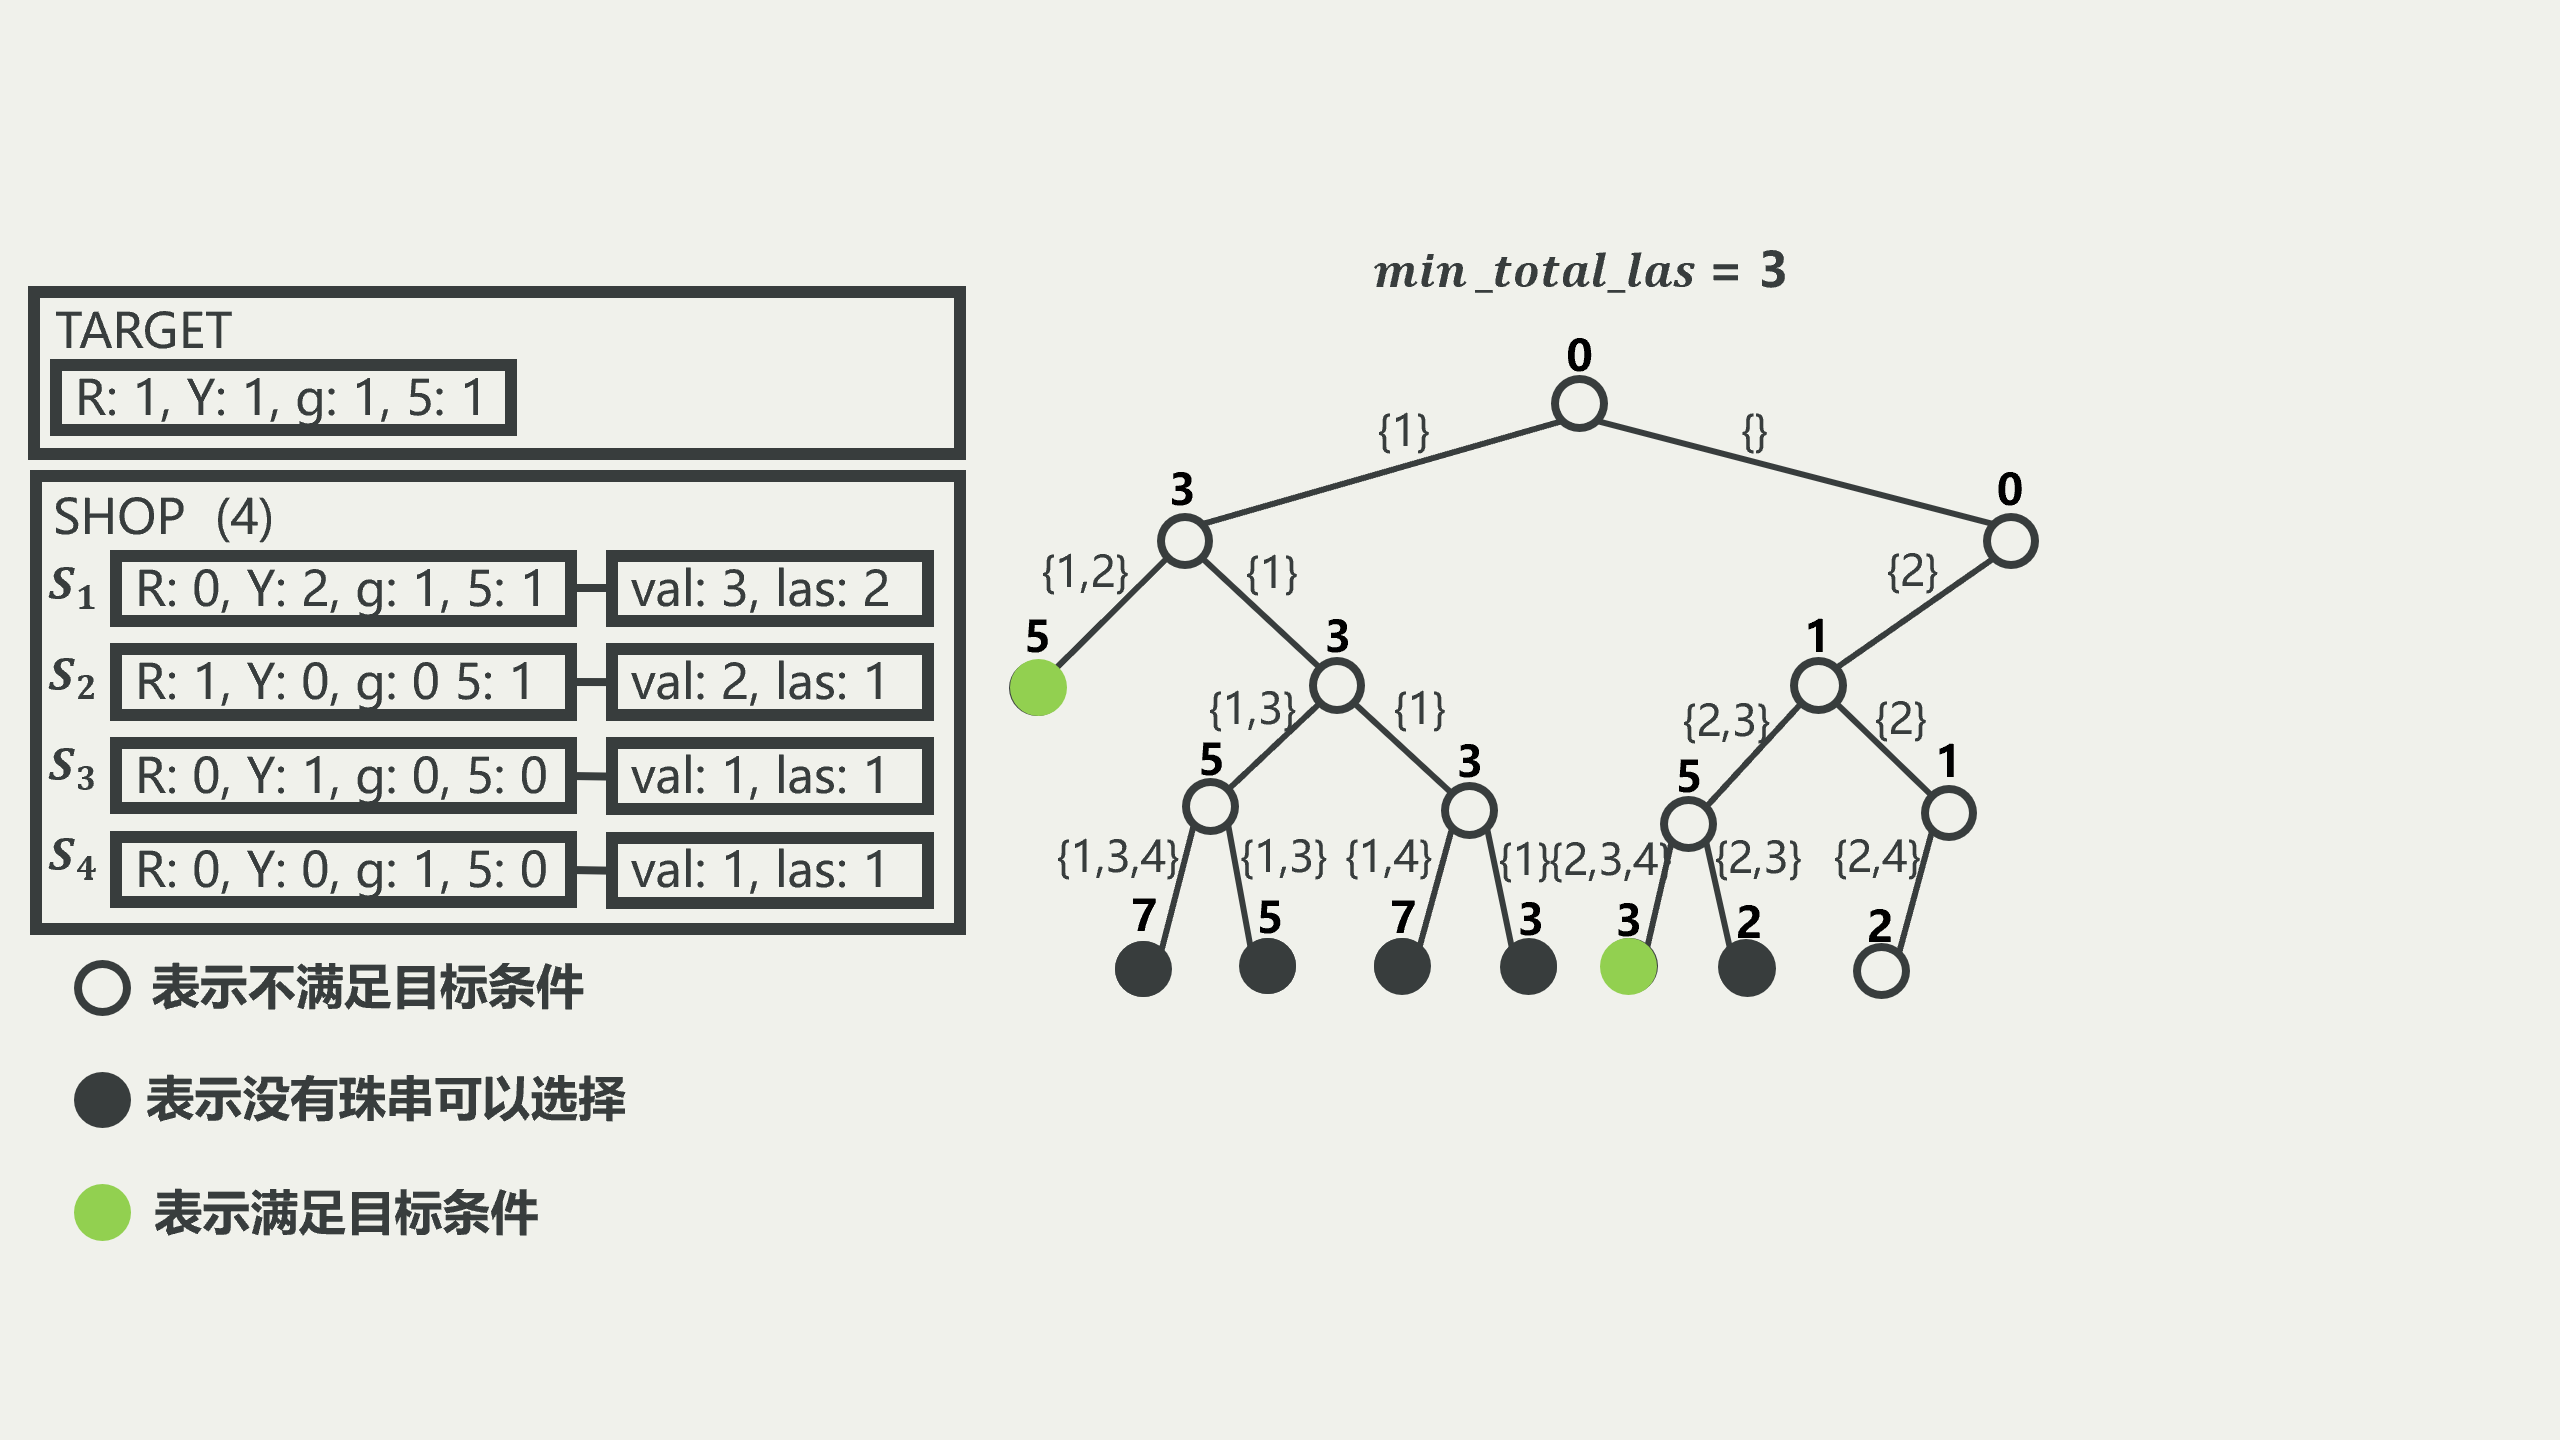
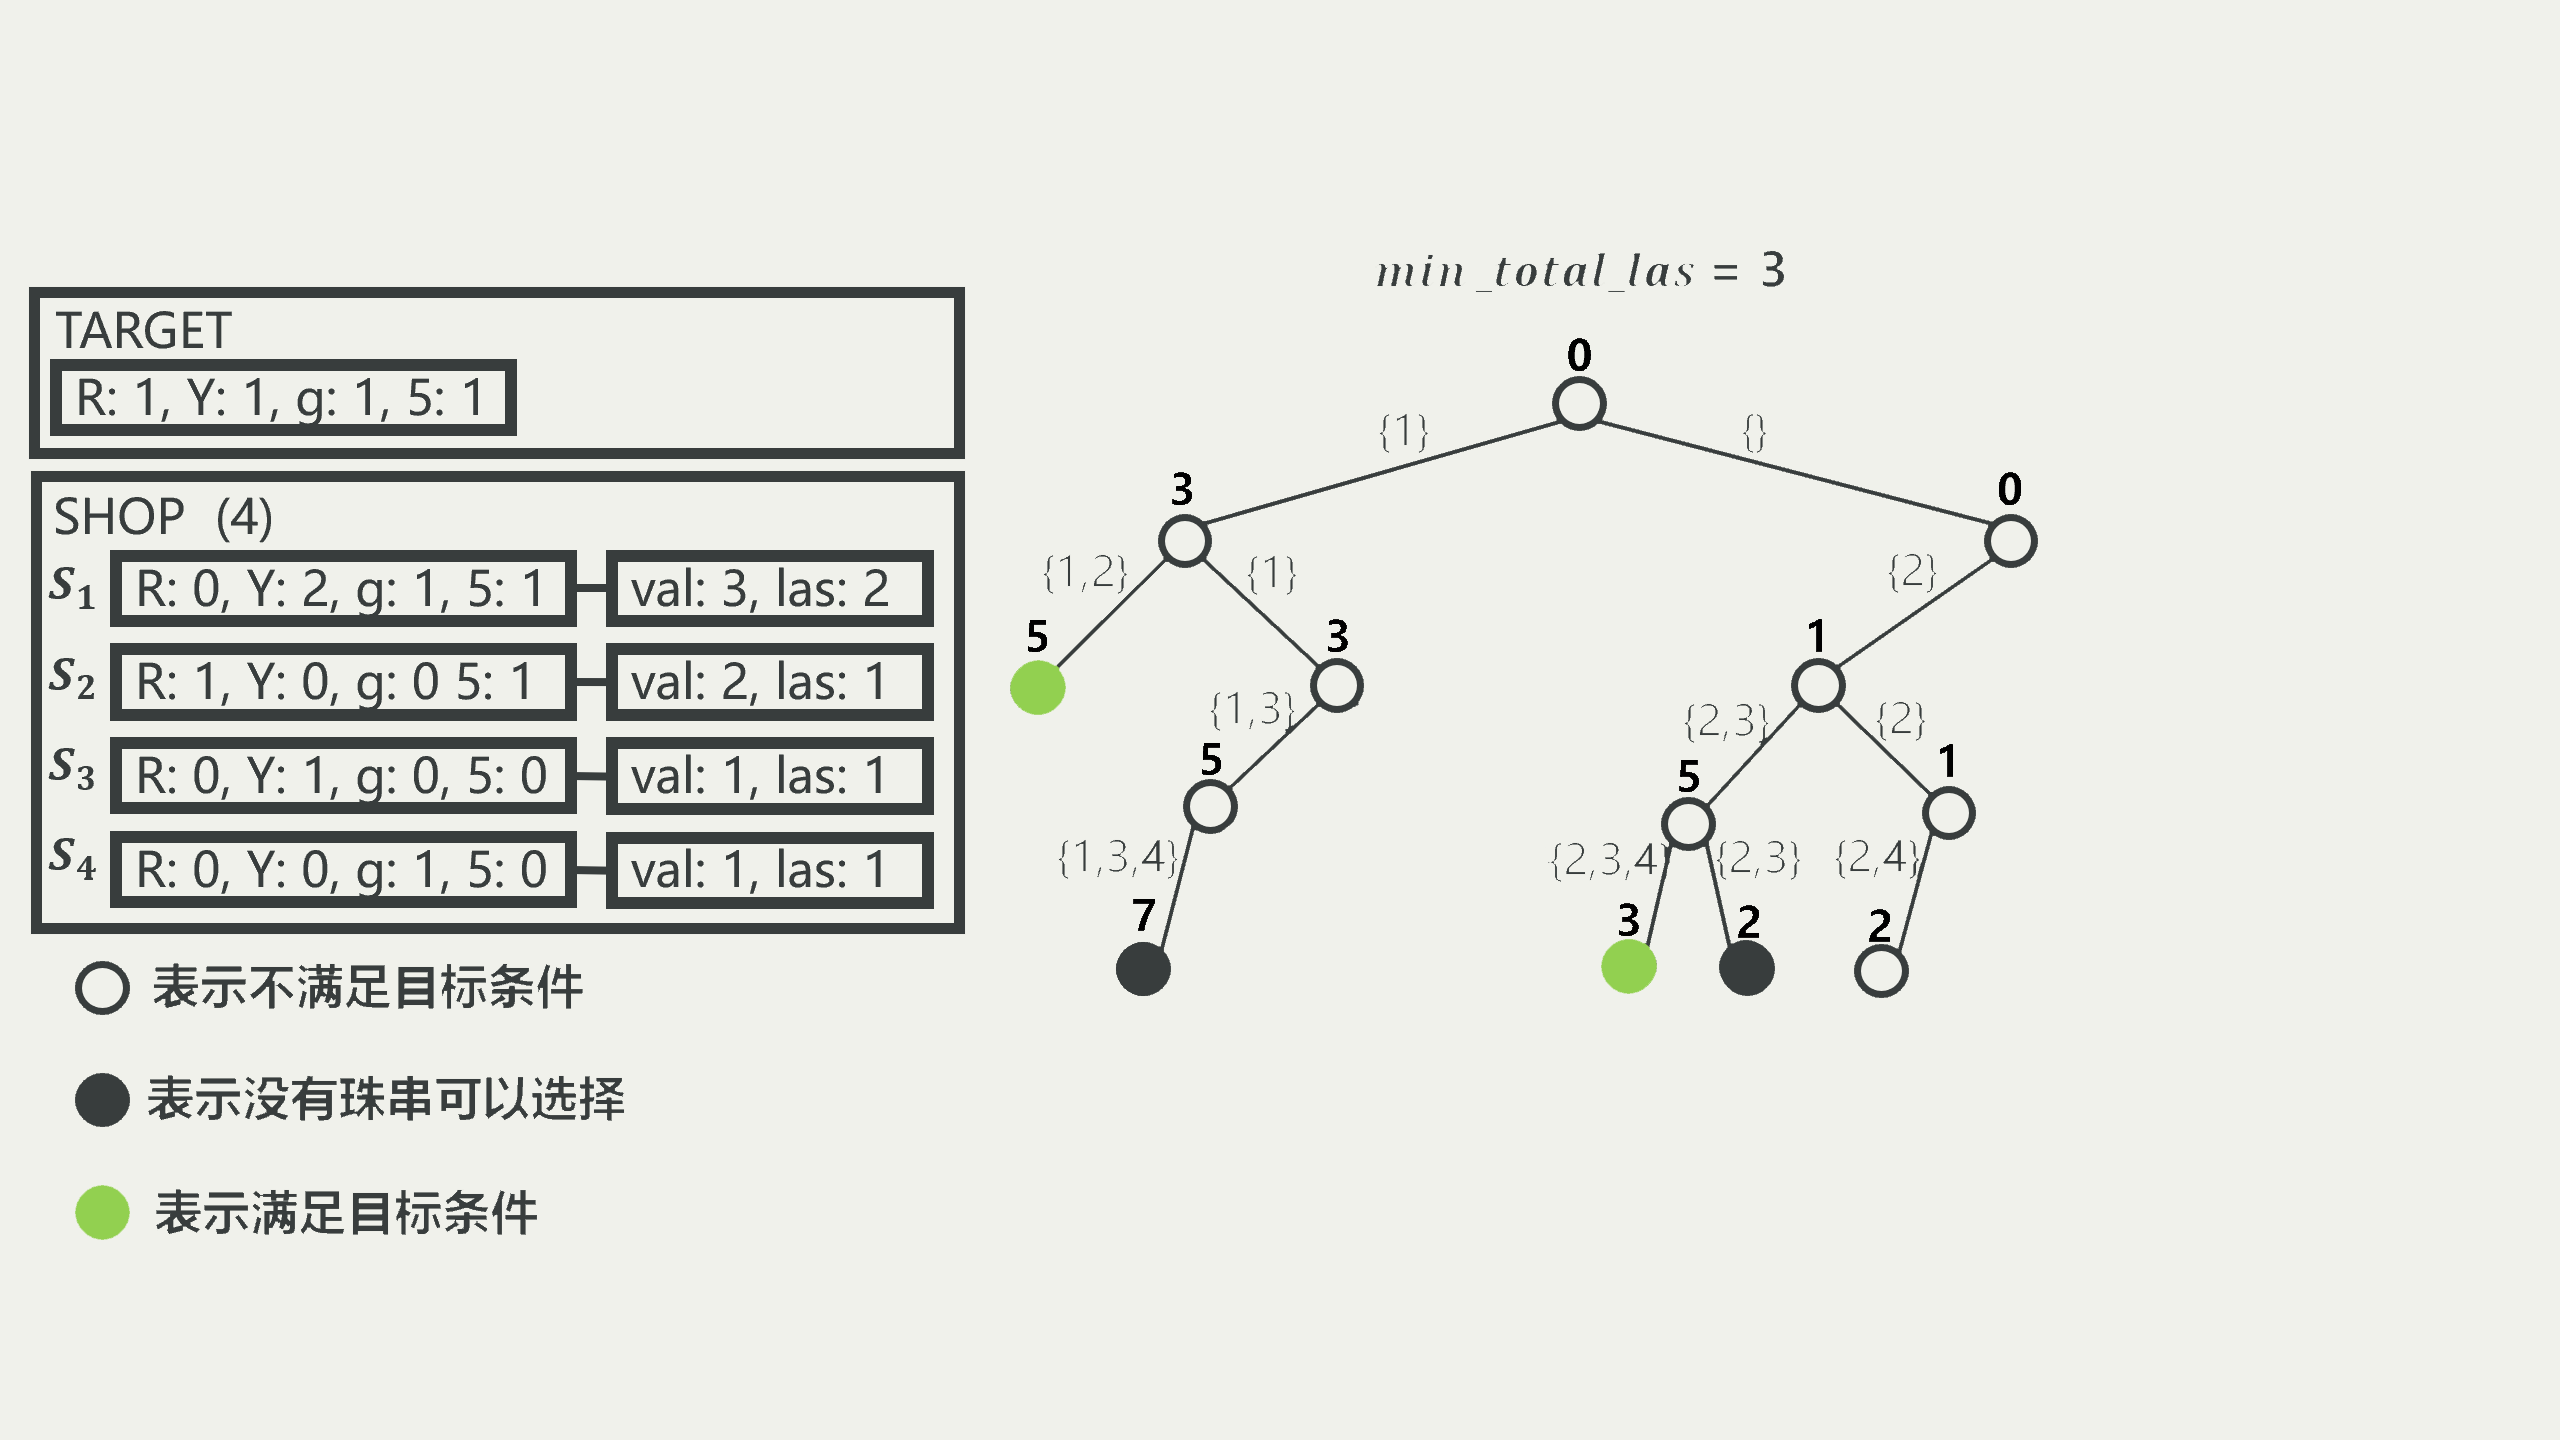
update algorithm

diff --git a/index.html b/index.html
@@ -62,8 +62,6 @@
 </script></section><section data-markdown><script type="text/template">
 ![图片7](assets/图片7.png)
 </script></section><section data-markdown><script type="text/template">
-![image-20230408222525227](assets/image-20230408222525227.png)
-</script></section><section data-markdown><script type="text/template">
 ![image-20230408232356419](assets/image-20230408232356419.png)
 </script></section><section data-markdown><script type="text/template">
 ![image-20230409104957428](assets/image-20230409104957428.png)
@@ -80,19 +78,15 @@
 </script></section><section data-markdown><script type="text/template">
 ![image-20230409105055365](assets/image-20230409105055365.png)
 </script></section><section data-markdown><script type="text/template">
-![image-20230408222634812](assets/image-20230408222634812.png)
-</script></section><section data-markdown><script type="text/template">
 ![image-20230408222726962](assets/image-20230408222726962.png)
 </script></section><section data-markdown><script type="text/template">
 ![image-20230408222732834](assets/image-20230408222732834.png)
 </script></section><section data-markdown><script type="text/template">
 ![image-20230408222753370](assets/image-20230408222753370.png)
 </script></section><section data-markdown><script type="text/template">
-![image-20230408222801190](assets/image-20230408222801190.png)
-</script></section><section data-markdown><script type="text/template">
 ![image-20230408222941472](assets/image-20230408222941472.png)
-</script></section><section data-markdown><script type="text/template">
-![image-20230408222947251](assets/image-20230408222947251.png)
+
+
 </script></section><section data-markdown><script type="text/template">
 ### 预处理
 
@@ -118,7 +112,9 @@
 </script></section><section data-markdown><script type="text/template">
 ### 剪枝(pruning)
 
-由于在回溯算法过程中，多余的珠子总数(`total_las`)单调非减，因此如果在其中一次搜索中计算得到的`total_las`超过当前最小值`min_total_las`，我们将直接回溯，不再继续搜索。<style type="text/css"> p {text-align: left;}</style>
+由于在回溯算法过程中，多余的珠子总数(`total_las`)单调非减，因此如果在其中一次搜索中计算得到的`total_las`超过当前最小值`min_total_las`，我们将直接回溯，不再继续搜索。
+
+当搜索到最后一串时仍然无法满足要求，可以判断当前搜索树的右子树不能满足条件，可以将其一并剪去。<style type="text/css"> p {text-align: left;}</style>
 </script></section></section><section ><section data-markdown><script type="text/template">
 ## 测试结果
 

diff --git a/slides.html b/slides.html
@@ -62,8 +62,6 @@
 </script></section><section data-markdown><script type="text/template">
 ![图片7](assets/图片7.png)
 </script></section><section data-markdown><script type="text/template">
-![image-20230408222525227](assets/image-20230408222525227.png)
-</script></section><section data-markdown><script type="text/template">
 ![image-20230408232356419](assets/image-20230408232356419.png)
 </script></section><section data-markdown><script type="text/template">
 ![image-20230409104957428](assets/image-20230409104957428.png)
@@ -80,19 +78,15 @@
 </script></section><section data-markdown><script type="text/template">
 ![image-20230409105055365](assets/image-20230409105055365.png)
 </script></section><section data-markdown><script type="text/template">
-![image-20230408222634812](assets/image-20230408222634812.png)
-</script></section><section data-markdown><script type="text/template">
 ![image-20230408222726962](assets/image-20230408222726962.png)
 </script></section><section data-markdown><script type="text/template">
 ![image-20230408222732834](assets/image-20230408222732834.png)
 </script></section><section data-markdown><script type="text/template">
 ![image-20230408222753370](assets/image-20230408222753370.png)
 </script></section><section data-markdown><script type="text/template">
-![image-20230408222801190](assets/image-20230408222801190.png)
-</script></section><section data-markdown><script type="text/template">
 ![image-20230408222941472](assets/image-20230408222941472.png)
-</script></section><section data-markdown><script type="text/template">
-![image-20230408222947251](assets/image-20230408222947251.png)
+
+
 </script></section><section data-markdown><script type="text/template">
 ### 预处理
 
@@ -118,7 +112,9 @@
 </script></section><section data-markdown><script type="text/template">
 ### 剪枝(pruning)
 
-由于在回溯算法过程中，多余的珠子总数(`total_las`)单调非减，因此如果在其中一次搜索中计算得到的`total_las`超过当前最小值`min_total_las`，我们将直接回溯，不再继续搜索。<style type="text/css"> p {text-align: left;}</style>
+由于在回溯算法过程中，多余的珠子总数(`total_las`)单调非减，因此如果在其中一次搜索中计算得到的`total_las`超过当前最小值`min_total_las`，我们将直接回溯，不再继续搜索。
+
+当搜索到最后一串时仍然无法满足要求，可以判断当前搜索树的右子树不能满足条件，可以将其一并剪去。<style type="text/css"> p {text-align: left;}</style>
 </script></section></section><section ><section data-markdown><script type="text/template">
 ## 测试结果
 
